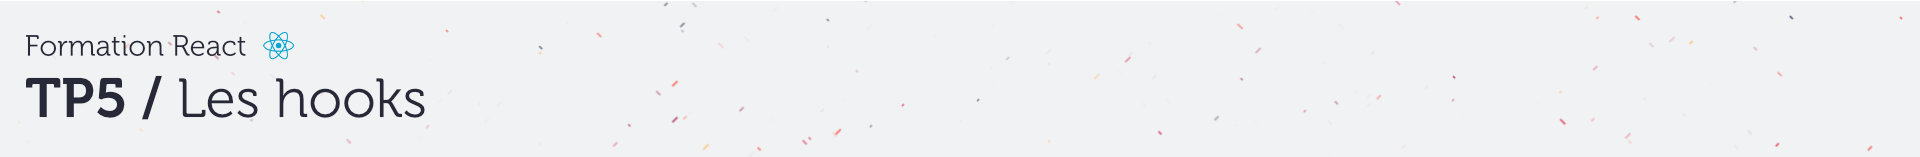
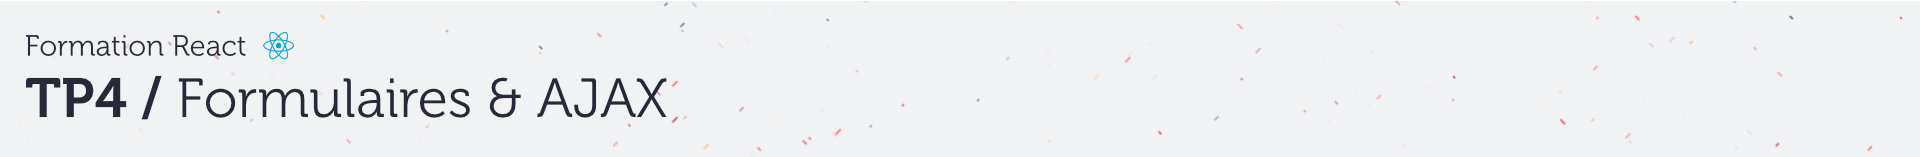
maj readme
hooks -> form+ajax (renumérotation suite à suppression classes)

diff --git a/B-ajax.md b/B-ajax.md
@@ -1,0 +1,89 @@
+<img src="images/readme/header-small.jpg" >
+
+# B. AJAX <!-- omit in toc -->
+
+_**Pour commencer ce TP nous allons connecter notre application React à l'API REST que l'on vient de lancer**_
+
+## Sommaire <!-- omit in toc -->
+- [B.1. Rappels : XMLHttpRequest vs fetch](#b1-rappels-xmlhttprequest-vs-fetch)
+- [B.2. Chargement de la liste des vidéos](#b2-chargement-de-la-liste-des-vidéos)
+
+## B.1. Rappels : XMLHttpRequest vs fetch
+Comme vu en cours (_récupérez si ce n'est pas déjà fait le pdf !_) il existe deux méthodes pour charger/envoyer des données en JS : [XMLHttpRequest](https://developer.mozilla.org/en-US/docs/Web/API/XMLHttpRequest) et l'[API fetch](https://developer.mozilla.org/en-US/docs/Web/API/Fetch_API/Using_Fetch)
+
+**C'est l'API fetch que nous utiliserons dans ce TP.** \
+En effet, elle dispose d'une syntaxe plus concise, avec laquelle il est plus facile de chaîner les traitements grâce aux [Promises](https://developer.mozilla.org/fr/docs/Web/JavaScript/Guide/Utiliser_les_promesses).
+
+Pour rappel, le support navigateur de l'API fetch est plutôt bon :
+
+<a href="http://caniuse.com/#feat=fetch">
+	<picture>
+		<source type="image/webp" srcset="https://caniuse.bitsofco.de/image/fetch.webp">
+		<img src="https://caniuse.bitsofco.de/image/fetch.png" alt="Data on support for the fetch feature across the major browsers from caniuse.com">
+	</picture>
+</a>
+
+> _**NB :** Comme on peut le voir, **aucune version d'Internet Explorer n'est compatible avec l'API fetch**. C'est aussi le cas des versions d'android 4.4.4 et inférieures. Heureusement, un [polyfill](https://fr.wikipedia.org/wiki/Polyfill) développé par Github est disponible ici : https://github.com/github/fetch. Sur un projet réel, s'il fallait supporter ces navigateurs anciens, vous devriez mettre en place ce polyfill mais pour gagner du temps nous ignorerons cette problématique dans le TP._
+
+## B.2. Chargement de la liste des vidéos
+1. **Commencez par supprimer l'import du module `data.js` dans la `VideoList`.** Comme on va charger les données de la bdd, on n'a plus besoin de cet import (_ne supprimez cependant pas tout de suite le fichier, le `VideoDetail` l'utilise encore... pour l'instant !_)
+2. **Supprimez ensuite le `setTimeout(...)` contenu dans la méthode componentDidMount de la `VideoList`.**
+3.  **A la place, lancez le chargement de la liste des vidéos avec l'API fetch** :
+	```js
+	fetch('http://localhost:8080/api/videos');
+	```
+
+	Rechargez la page html dans le navigateur et vérifiez dans l'onglet Network/Réseau des devtools que votre page lance bien une requête HTTP vers http://localhost:8080/api/videos :
+
+	<img src="images/readme/screen-02.png">
+
+	Maintenant que l'on arrive à lancer la requête, reste à exploiter la réponse renvoyée par le serveur et à utiliser les données qu'elle contient !
+
+4. **Commencez par inspecter la réponse retournée par `fetch()` grâce à la méthode `.then()`** :
+	```js
+	fetch('http://localhost:8080/api/videos')
+		.then( response => console.log(response) );
+	```
+
+	Rechargez la page et regardez ce qui s'affiche dans la console : il s'agit d'un objet de type [Response](https://developer.mozilla.org/en-US/docs/Web/API/Response) retourné par l'API fetch.
+
+	Comme vu en cours, cet objet contient notamment des propriétés `ok`, `status` et `statusText` qui permettent d'en savoir plus sur la réponse HTTP retournée par le serveur.
+
+4. **On va maintenant pouvoir récupérer les données brutes contenues dans la réponse HTTP grâce à la méthode [response.text()](https://developer.mozilla.org/en-US/docs/Web/API/Body/text)** :
+	```js
+	fetch('http://localhost:8080/api/videos')
+	  .then( response => response.text() )
+	  .then( responseText => console.log(responseText) );
+	```
+	Vérifiez que la console affiche bien la chaîne au format JSON :
+
+	<img src="images/readme/screen-03.png">
+
+	_Maintenant que l'on est capable de récupérer le contenu de la réponse sous forme de chaîne de caractères, il reste encore à **convertir la chaîne JSON en objets JS** !_
+
+5. **Pour convertir la réponse en objets JS, nous avons 2 solutions :**
+	- utiliser `response.text()` et `JSON.parse()`
+	- ou bien utiliser juste `response.json()`. C'est cette technique que nous allons employer, car elle est quand même beaucoup plus simple :
+	```js
+	fetch('http://localhost:8080/api/videos')
+	  .then( response => response.json() )
+	  .then( data => console.log(data) );
+	```
+	En théorie, vous devriez maintenant voir dans la console, le tableaux de vidéos décodé : vous pouvez utiliser les flèches pour déplier/replier chaque objet et consulter ses propriétés.
+
+	<img src="images/readme/screen-03b.png">
+
+6. **Maintenant que vous avez réussi à récupérer les infos de la base, que vous les avez converties en données exploitables en JS, reste à les exploiter dans notre `VideoList` simplement à l'aide de `setState()` !**
+
+	```js
+	fetch('http://localhost:8080/api/videos')
+		.then(response => response.json())
+		.then(data => setVideos(data));
+	```
+
+	<img src="images/readme/screen-04.png">
+
+	Ca y est ! La page s'affiche maintenant avec la liste complète des vidéos contenues dans la base de données du serveur REST !! :metal: :tada: :trophy: :pizza: :beers:
+
+## Étape suivante <!-- omit in toc -->
+Maintenant que l'on est capables de communiquer avec notre API REST, voyons comment créer un formulaire dans React pour envoyer des données en base : [C. VideoForm](C-VideoForm.md).

diff --git a/D-perfectionnement.md b/D-perfectionnement.md
@@ -1,0 +1,81 @@
+<img src="images/readme/header-small.jpg" >
+
+# D. Perfectionnement <!-- omit in toc -->
+
+_**Notre application commence à prendre forme : on est capables de lire et d'écrire dans la base de données, c'est déjà pas mal !**_
+
+_**En revanche il reste un certain nombre de choses qui sont encore en dur dans le code et que l'on doit dynamiser. <br>C'est parti !**_
+
+## Sommaire <!-- omit in toc -->
+- [D.1. VideoDetail](#d1-videodetail)
+- [D.2. Redirection VideoForm -\> VideoDetail](#d2-redirection-videoform-videodetail)
+- [D.3. API likes/dislikes](#d3-api-likesdislikes)
+- [D.4. Les commentaires](#d4-les-commentaires)
+
+
+## D.1. VideoDetail
+
+**En vous inspirant de ce que vous avez fait à la partie [B. AJAX](B-ajax.md) dans la `VideoList`, connectez le composant `VideoDetail` au webservice http://localhost:8080/api/videos/:id** (_où `:id` correspond à l'id de la vidéo à afficher_)
+
+> _**NB :** Pour que ce soit plus simple à tester, je vous conseille de remettre la page `VideoList` comme page par défaut dans le `Navigator`._
+
+> _**NB2 :** une fois le `VideoDetail` connecté à l'API, vous pouvez supprimer le fichier `src/data.js` qui n'est plus utile._
+
+## D.2. Redirection VideoForm -> VideoDetail
+**Maintenant que le `VideoDetail` est dynamisé, profitons en pour modifier le comportement du `VideoForm`** : une fois l'enregistrement d'une nouvelle vidéo terminé, au lieu de rediriger l'utilisateur vers la page liste, **redirigez le plutôt vers la page détail** de la vidéo qu'il vient d'enregistrer !
+
+> _**Indice :** inspectez bien le corps de la réponse à votre requête POST...)_
+
+## D.3. API likes/dislikes
+_**Connectons maintenant les boutons like/dislike de la page `VideoDetail` à l'API.**_
+
+1. **Dans la page `VideoDetail`, faites en sorte que :**
+	- le clic sur le bouton **"like"** lance un **POST vers http://localhost:8080/api/videos/:id/likes**
+	- et que le click sur le bouton **"dislike"** lance un **POST http://localhost:8080/api/videos/:id/dislikes**
+
+		(_où **`:id`** est l'id de la vidéo actuellement affichée dans `VideoDetail`_)
+3. **Une fois le POST terminé, mettez à jour le nombre de likes affichés dans la page** (_à partir des données en bdd, quelques fois qu'un autre utilisateur aurait lui aussi entre temps cliqué sur les boutons_ 😉 ).
+
+## D.4. Les commentaires
+
+_**Dans ce dernier exercice, je vous propose de travailler avec les formulaires contrôlés en ajoutant un système de commentaires dans la page de détail.**_
+
+<img src="images/readme/commentaires.png" >
+
+Plusieurs contraintes :
+- le formulaire d'ajout de commentaire doit donc être un formulaire **contrôlé**
+- l'API pour les commentaires est **déjà fournie** :
+	- **GET http://localhost:8080/api/videos/1/comments** retourne les commentaires de la vidéo d'id 1
+	- **POST http://localhost:8080/api/videos/1/comments** ajoute un nouveau commentaire.
+
+		Le body de la requête POST doit être de la forme :
+		```json
+		{
+			"content": "Le message saisi par l'utilisateur"
+		}
+		```
+- Une fois un commentaire ajouté, la **liste des commentaires doit se rafraîchir**
+- le commentaire le plus récent est en haut
+- pour chaque commentaire on affiche son contenu et sa date de publication au format `"Le 06/07/2020 à 13:37:42"`
+- comme nous sommes dans un formulaire contrôlé, on peut modifier la valeur tapée par l'utilisateur : remplacez automatiquement certains mots au fur et à mesure de la frappe (par exemple on peut remplacer "angular" par "react" 😁)
+- comme le texte tapé par l'utilisateur est stocké dans le state du composant, il est facile d'adapter le JSX retourné à la valeur saisie : désactivez donc le bouton submit tant qu'il n'y a pas plus de 2 caractères saisis
+- pendant le chargement l'utilisateur ne doit pas pouvoir saisir de texte ou re-cliquer sur le bouton submit
+
+Voici une proposition de code HTML qui devrait rendre à peu près bien dans la page :
+```html
+<aside class="commentList">
+	<h2>X commentaires</h2>
+	<form class="commentForm">
+		<textarea
+			name="content"
+			rows="2"
+			placeholder="Ajouter un commentaire public"
+		></textarea>
+		<button type="submit">Envoyer</button>
+	</form>
+	<article class="commentRenderer">
+		<time datetime="2020-06-08 22:40:41">Le 08/06/2020 à 22:40:41</time>
+		<p>Génial ! Vive React</p>
+	</article>
+</aside>
+```

diff --git a/C-VideoForm.md b/C-VideoForm.md
@@ -1,0 +1,64 @@
+<img src="images/readme/header-small.jpg" >
+
+# C. VideoForm <!-- omit in toc -->
+
+_**Maintenant que l'on est capables de récupérer des informations de la bdd avec des requêtes GET, voyons comment envoyer des informations en POST par l'intermédiaire d'un formulaire non contrôlé.**_
+
+## Sommaire <!-- omit in toc -->
+- [C.1. Création du formulaire](#c1-création-du-formulaire)
+- [C.2. Gestion du formulaire](#c2-gestion-du-formulaire)
+
+## C.1. Création du formulaire
+
+1. **Créez un nouveau composant `VideoForm`** dont le render retournera le code HTML suivant :
+	```html
+	<form class="videoForm">
+		<label for="title">Titre</label>
+		<input
+			required
+			type="text"
+			id="title"
+		/>
+		<label for="description">Description</label>
+		<textarea
+			required
+			id="description"
+			cols="30"
+			rows="10"
+		></textarea>
+		<label for="thumbnail">
+			Vignette
+			<small>
+				&nbsp;id de l'image sur &nbsp;
+				<a href="https://unsplash.com" target="_blank">
+					https://unsplash.com
+				</a>
+			</small>
+		</label>
+		<input
+			required
+			type="text"
+			id="thumbnail"
+		/>
+		<button type="submit">Envoyer</button>
+	</form>
+	```
+	> _**NB :** Vous aurez remarqué qu'il n'y a pas de champ pour l'upload du champ `file`. En effet le fichier vidéo sera choisi au hasard côté serveur au moment de l'enregistrement en bdd. Cela nous permet de ne pas nous embêter dans ce TP avec de l'upload de fichiers via une requête multipart et sa [syntaxe un peu complexe](https://developer.mozilla.org/en-US/docs/Web/API/Fetch_API/Using_Fetch#Uploading_a_file)_
+2. **Ajoutez cet écran dans le `Navigator` avec un identifiant de route associé** (_pour `VideoList` on avait `'list'`, pour `VideoDetail` on avait `'detail'`, je vous propose donc pour `VideoForm` de partir sur... `'form'`, original non ?_)
+3. **Affichez `VideoForm` par défaut au chargement de l'appli en modifiant le `state` par défaut du `Navigator`**
+
+## C.2. Gestion du formulaire
+1. **A l'aide de la technique des composants non-contrôlés** (_cf. pdf du cours_) faites en sorte d'afficher dans la console les valeurs saisies par l'utilisateur lorsqu'il soumet le formulaire (touche <kbd>Entrée</kbd> ou click sur le bouton "Envoyer")
+2. **Une fois les valeurs récupérées, envoyez une requête POST vers le webservice http://localhost:8080/api/videos**
+
+	Aidez vous pour cela de :
+	- la documentation (_[openapi/swagger](https://swagger.io/specification/)_) de l'API REST directement à la racine de votre serveur REST : http://localhost:8080/ (_si vous souhaitez accéder au fichier de description de l'API au format yaml vous le trouverez à la racine du dossier `api-server` : https://framagit.org/formation/react/api-server/-/blob/master/openapi.yaml_)
+	- la documentation de `fetch` avec POST : https://developer.mozilla.org/fr/docs/Web/API/Fetch_API/Using_Fetch#corps
+
+	> _**NB :** Pour envoyer vos données dans le `body` de votre `fetch`, il faut que ces données soient **encodées sous forme de chaîne de caractères JSON**. Pensez donc à utiliser `JSON.stringify()` autour de l'objet que vous souhaitez envoyer dans le `body` !_
+
+3. **Enfin, quand l'enregistrement en bdd a été effectué par le webservice, et si aucune erreur n'a été remontée, alors redirigez l'utilisateur vers la page liste, en principe la nouvelle vidéo doit y apparaître !**
+
+
+## Étape suivante <!-- omit in toc -->
+Une fois cette partie terminée, passez à la partie : [D. Perfectionnement](D-perfectionnement.md).

diff --git a/A-preparatifs.md b/A-preparatifs.md
@@ -1,10 +1,16 @@
 <img src="images/readme/header-small.jpg" >
 
+
 # A. Préparatifs <!-- omit in toc -->
 
-Vous commencez maintenant à avoir l'habitude, je ne rentrerais donc pas dans les détails mais voici les différentes étapes pour le lancement du projet en mode [TL;DR](https://en.wiktionary.org/wiki/tl;dr)
+## Sommaire <!-- omit in toc -->
+- [A.1. Récupération du projet](#a1-récupération-du-projet)
+- [A.2. Lancement de l'API REST](#a2-lancement-de-lapi-rest)
 
-> _**NB :** Si vous repartez de vos fichiers, **pensez à faire un `git pull`** pour récupérer les dernières modifications du repo (probablement des modifs de CSS ou des corrections de dernière minute)._
+
+
+## A.1. Récupération du projet
+Vous commencez maintenant à avoir l'habitude, je ne rentrerais donc pas dans les détails mais voici les différentes étapes pour le lancement du projet en mode [TL;DR](https://en.wiktionary.org/wiki/tl;dr)
 
 1. **Tapez dans un terminal :**
 	```bash
@@ -12,14 +18,9 @@ Vous commencez maintenant à avoir l'habitude, je ne rentrerais donc pas dans le
 	git clone https://framagit.org/formation/react/tp5.git ~/tps-react/tp5
 	codium ~/tps-react/tp5
 	```
-2. **Puis dans 2 terminaux splittés de VSCodium :**
+2. **Puis dans un terminal intégré de VSCodium** (<kbb>CTRL/Cmd</kbd>+<kbd>J</kbd>) :
 	```bash
 	npm i
-	npm start
-	```
-	et :
-	```bash
-	cd ~/tps-react/api-server
 	npm start
 	```
 
@@ -29,5 +30,19 @@ Le résultat attendu est le suivant :
 
 <img src="images/readme/screen-00.png" >
 
+## A.2. Lancement de l'API REST
+Dans ce TP on va enfin connecter notre appli web à une base de données grâce à l'API REST que l'on a installée lors du TP0 (cf. [TP0 : C. Serveur API REST](https://framagit.org/formation/react/tp0/-/blob/master/C-serveur-rest.md)).
+
+C'est donc le moment de lancer le serveur Node / Express qui fait tourner l'API :
+```bash
+cd ~/tps-react/api-server
+npm start
+```
+
+**Vérifiez que l'API tourne bien en ouvrant http://localhost:8080/api/videos dans votre navigateur.** Si tout se passe bien vous devez voir un JSON s'afficher avec des vidéos dedans :
+
+<img src="images/readme/screen-01.png" >
+
+
 ## Étape suivante <!-- omit in toc -->
-Si tout fonctionne, vous pouvez passer à l'étape suivante : [B. Les hooks de base](B-hooks.md)
+Si tout fonctionne, vous pouvez passer à l'étape suivante : [B. AJAX](B-ajax.md)
